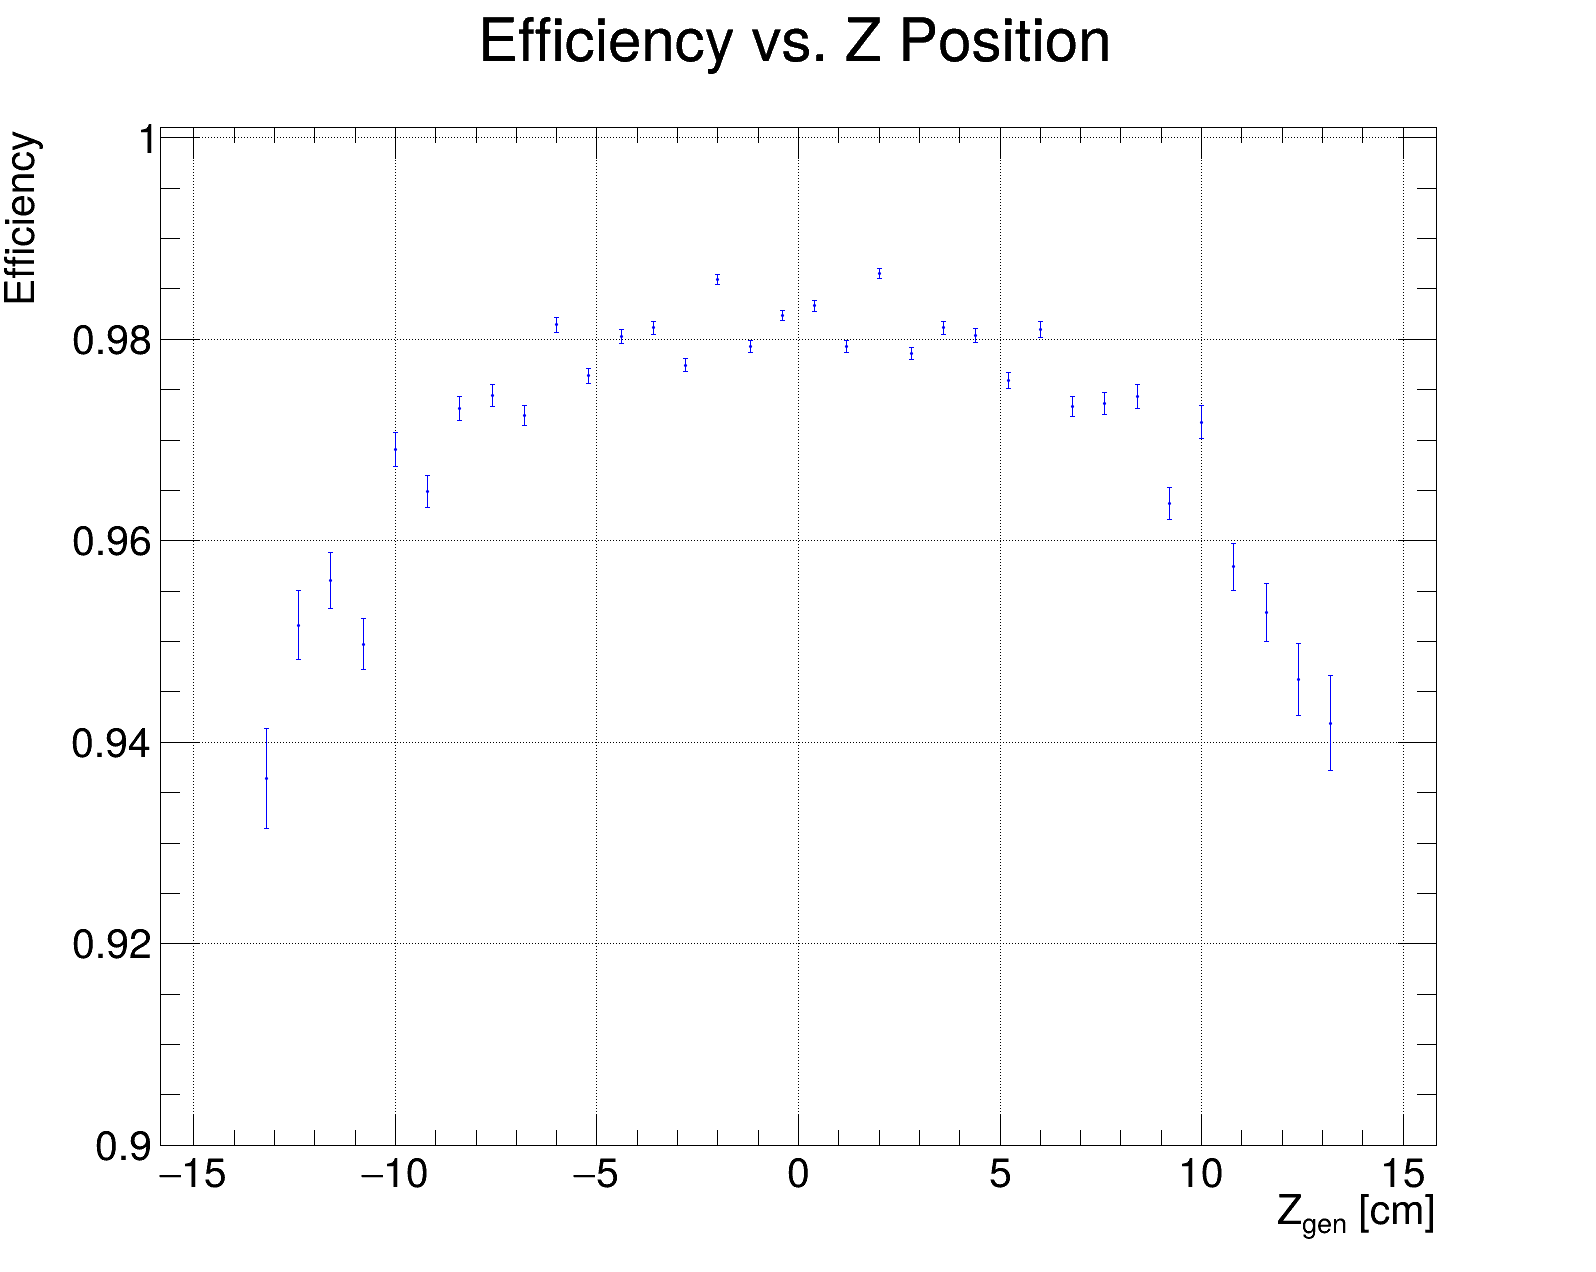
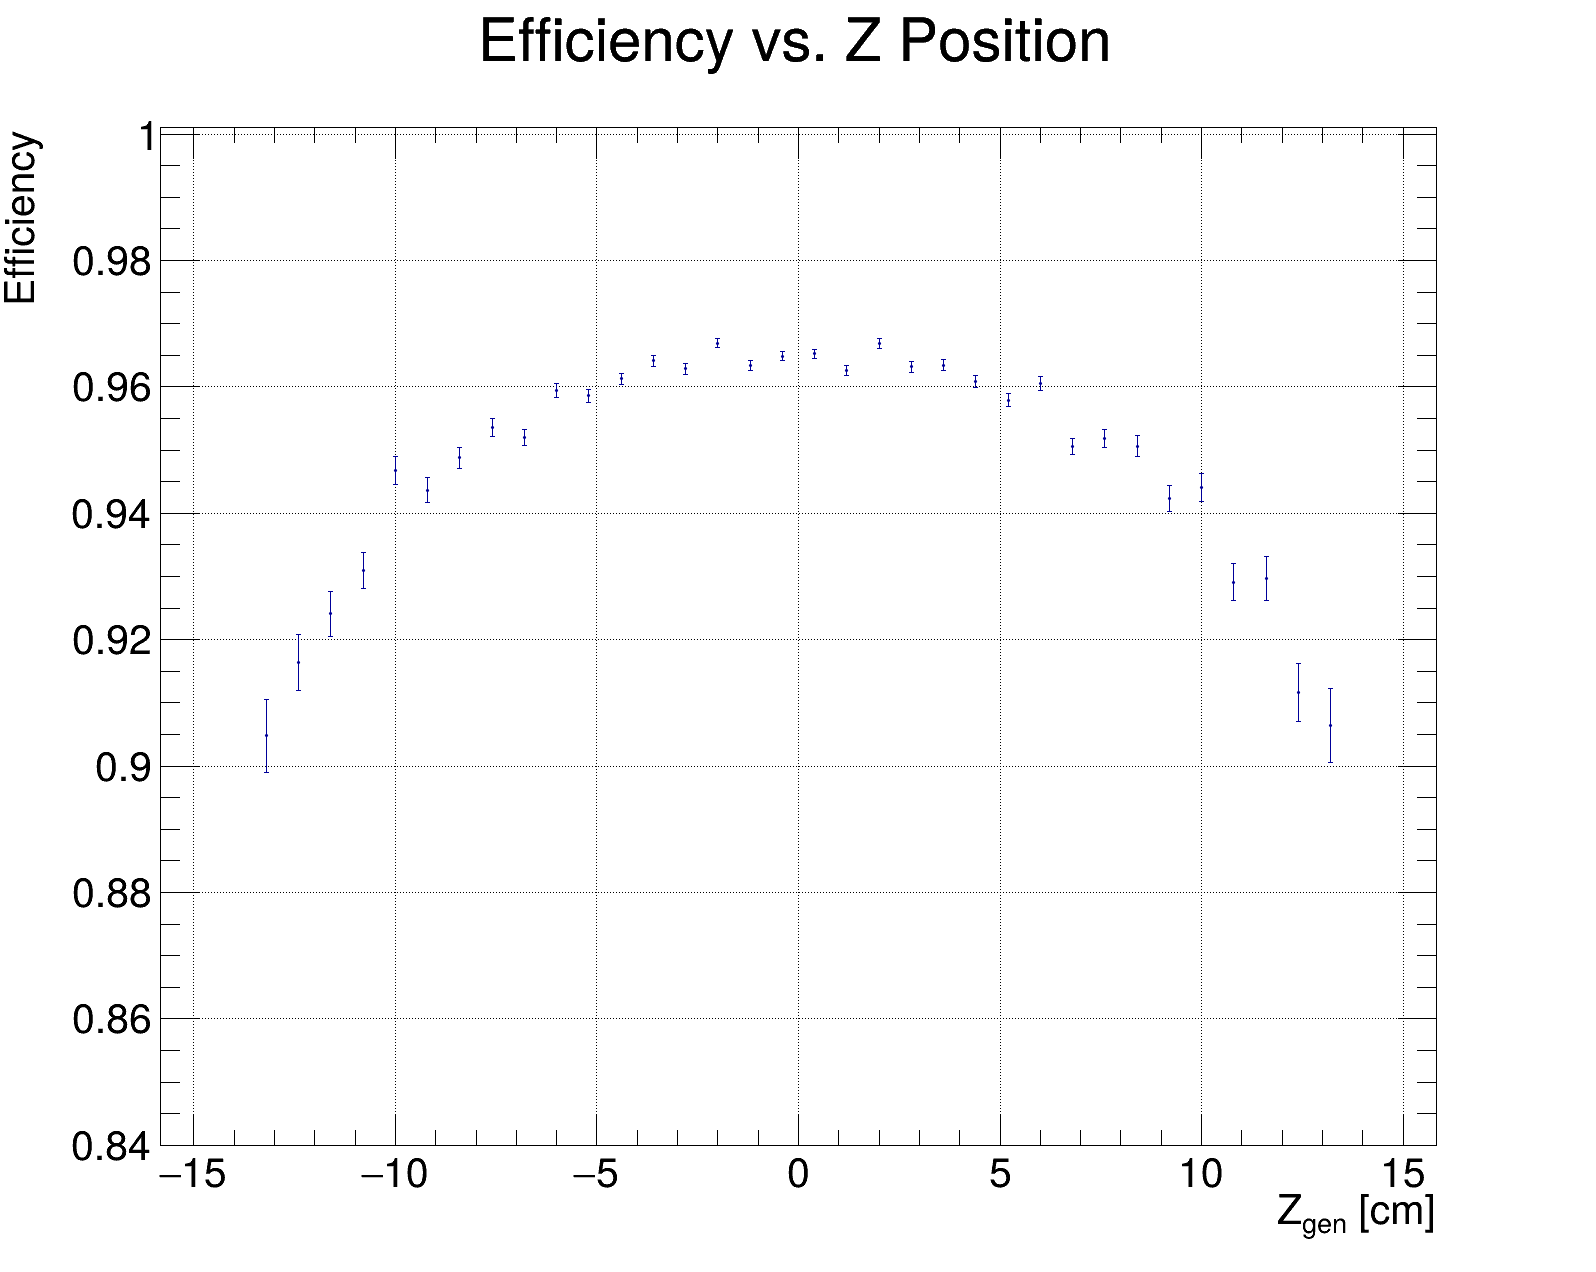
All files revised and corrected. Analysis adjusted to distr selection

diff --git a/project/macros/analysis.C b/project/macros/analysis.C
@@ -114,20 +114,15 @@ void analysis(unsigned int events = 1000000, string distr="custom") {
 
     profileZDiffGen->SetMarkerStyle(20);
     profileZDiffGen->SetMarkerSize(0.8);
-    profileZDiffGen->SetMarkerColor(kBlue);
-    profileZDiffGen->SetLineColor(kBlue);    
+    profileZDiffGen->SetMarkerColor(kBlue+2);
+    profileZDiffGen->SetLineColor(kBlue+2);    
 
     TH1D* histRes = new TH1D("Residuals", "Z Residuals;Z Difference (reco - gen) [cm];Entries", nResBins, ResMin, ResMax);
     TH1D* histMultTotal = new TH1D("MultTotal", "Multiplicity Distribution;Multiplicity;Entries", nMultBins, MultMin, MultMax);
     TH1D* histMultValid = new TH1D("MultValid", "Valid Events Multiplicity;Multiplicity;Entries", nMultBins, MultMin, MultMax);  
     TH1D* histZTotal = new TH1D("ZTotal", "Total Vertices vs Z;Z_{gen} [cm];Entries", nZBins, zMin, zMax);
     TH1D* histZValid = new TH1D("ZValid", "Reco Vertices vs Z;Z_{gen} [cm];Entries", nZBins, zMin, zMax);
-    
-    histZTotal->Sumw2();
-    histZValid->Sumw2();
-    histRes->Sumw2();
-    histMultTotal->Sumw2();
-    histMultValid->Sumw2();
+ 
     
     vector<double> mult_bins(nMultBins);
     vector<double> zDiff_means(nMultBins, 0.0);
@@ -162,7 +157,8 @@ void analysis(unsigned int events = 1000000, string distr="custom") {
         mult_bins[i] = histMultValid->GetBinCenter(i);  // Center of each bin
     }
     
-    
+    histRes->SetMarkerColor(kBlue+2);
+    histRes->SetLineColor(kBlue+2);
     histMultTotal->SetLineColor(kBlue);
     histMultTotal->SetLineWidth(2);
     histMultValid->SetLineColor(kRed);
@@ -226,8 +222,8 @@ void analysis(unsigned int events = 1000000, string distr="custom") {
     graphEffZ->SetTitle("Efficiency vs. Z Position;Z_{gen} [cm];Efficiency");
     graphEffZ->SetMarkerStyle(20);
     graphEffZ->SetMarkerSize(0.4);
-    graphEffZ->SetMarkerColor(kBlue);
-    graphEffZ->SetLineColor(kBlue);
+    graphEffZ->SetMarkerColor(kBlue+2);
+    graphEffZ->SetLineColor(kBlue+2);
     
 // Z DIFFERENCE VS MULTIPLICITY-------------------------------------------------------------------------------------------------------
     int step=1;
@@ -237,7 +233,7 @@ void analysis(unsigned int events = 1000000, string distr="custom") {
             valid_zdiff.push_back(zDiff_means[i] / mult_counts[i]);
             valid_zdiff_errors.push_back(histRes->GetRMS() / sqrt(mult_counts[i]));
             valid_mult_errors.push_back(sqrt(mult_bins[i]));
-            if (i>10){step=7;}
+            if (distr!="uni"&& i>7){step=7;}
         }
         
     }
@@ -253,8 +249,8 @@ void analysis(unsigned int events = 1000000, string distr="custom") {
     graphZDiff->SetTitle("Absolute Z Difference vs. Multiplicity;Multiplicity;Mean |Z Difference| [cm]");
     graphZDiff->SetMarkerStyle(20);
     graphZDiff->SetMarkerSize(0.8);
-    graphZDiff->SetMarkerColor(kBlue);
-    graphZDiff->SetLineColor(kBlue);
+    graphZDiff->SetMarkerColor(kBlue+2);
+    graphZDiff->SetLineColor(kBlue+2);
 
 //EFFICIENCY VS MULTIPLICITY-----------------------------------------------------------------------------------------------------------------------------  
     step=1;
@@ -273,7 +269,7 @@ void analysis(unsigned int events = 1000000, string distr="custom") {
             errorHighs.push_back(errorHigh);
             errorLowsX.push_back(errmult);
             errorHighsX.push_back(errmult);
-            if (bin>7){step=7;}
+            if (distr!="uni"&&bin>7){step=7;}
         }
     }
 
@@ -290,7 +286,8 @@ void analysis(unsigned int events = 1000000, string distr="custom") {
     graphEff->SetTitle("Efficiency vs. Multiplicity;Multiplicity;Efficiency");
     graphEff->SetMarkerStyle(20);
     graphEff->SetMarkerSize(0.5);
-    graphEff->SetMarkerColor(kBlue);
+    graphEff->SetMarkerColor(kBlue+2);
+    graphEff->SetLineColor(kBlue+2);
     
 // CANVASES-----------------------------------------------------------------------------------------------------------------------------   
  
@@ -298,8 +295,8 @@ void analysis(unsigned int events = 1000000, string distr="custom") {
     canvasMult->SetTicks(1, 1);
     canvasMult->SetGrid();
     TLegend* legend = new TLegend(0.65, 0.75, 0.85, 0.85);
-    legend->AddEntry(histMultTotal, "Total Events", "l");
-    legend->AddEntry(histMultValid, "Valid Events", "l");
+    legend->AddEntry(histMultTotal, "Total vertices", "l");
+    legend->AddEntry(histMultValid, "Reco vertices", "l");
     histMultTotal->Draw("HIST");
     histMultValid->Draw("HIST SAME");
     histMultTotal->SetStats(0);
@@ -314,38 +311,39 @@ void analysis(unsigned int events = 1000000, string distr="custom") {
     canvasHist->SaveAs("../plots/ZResiduals.png");   
     
     
-// SET RANGES-------------------------------------
+// SET RANGES---------------------------------------------------------------------------------------------------------------
 
   if( distr=="uni"){
-    profileZDiffGen->GetYaxis()->SetRangeUser(0, 0.04);
+    profileZDiffGen->GetYaxis()->SetRangeUser(0.010, 0.016);
     profileZDiffGen->GetYaxis()->SetMaxDigits(2);
     profileZDiffGen->GetYaxis()->SetTitleOffset(1.2);
     graphEff->GetYaxis()->SetRangeUser(0.95, 1.001);
-    graphZDiff->GetYaxis()->SetRangeUser(0, 0.02);
+    graphZDiff->GetYaxis()->SetRangeUser(0.009, 0.014);
+    graphZDiff->GetYaxis()->SetMaxDigits(2);
     graphEffZ->GetYaxis()->SetRangeUser(0.9, 1.001);
   
   
   } else if (distr=="gaus"){
-    profileZDiffGen->GetYaxis()->SetRangeUser(0, 0.03);
+    profileZDiffGen->GetYaxis()->SetRangeUser(0.010, 0.018);
     profileZDiffGen->GetYaxis()->SetMaxDigits(2);
     profileZDiffGen->GetYaxis()->SetTitleOffset(1.2);
     graphEff->GetYaxis()->SetRangeUser(0.85, 1.001);
     graphZDiff->GetYaxis()->SetRangeUser(0, 0.08);
-    graphEffZ->GetYaxis()->SetRangeUser(0.8, 1.001);
+    graphEffZ->GetYaxis()->SetRangeUser(0.9, 1.001);
   
   } else { // custom
-    profileZDiffGen->GetYaxis()->SetRangeUser(0.005, 0.03);
+    profileZDiffGen->GetYaxis()->SetRangeUser(0.012, 0.023);
     profileZDiffGen->GetYaxis()->SetMaxDigits(2);
     profileZDiffGen->GetYaxis()->SetTitleOffset(1.2);
-    graphEff->GetYaxis()->SetRangeUser(0.85, 1.001);
+    graphEff->GetYaxis()->SetRangeUser(0.84, 1.001);
     graphZDiff->GetYaxis()->SetRangeUser(0, 0.08);
-    graphEffZ->GetYaxis()->SetRangeUser(0.8, 1.001);
+    graphEffZ->GetYaxis()->SetRangeUser(0.84, 1.001);
   
   }
     
     
     
-//GENERAL CANVASES--------------------------------------------------il range-----------------------------------------------------------    
+//GENERAL CANVASES-------------------------------------------------------------------------------------------------------------    
     
     TCanvas* canvasZDiffGen = new TCanvas("canvasZDiffGen", "Z Difference vs Generated Z", 1600, 1300);
     canvasZDiffGen->SetTicks(1, 1);

diff --git a/project/macros/sim.C b/project/macros/sim.C
@@ -14,7 +14,7 @@
 
 
 
-void sim(int seed = 123, unsigned const int events = 1000000, bool MS = true, bool noise = true, string distr="custom") {
+void sim(int seed = 987, unsigned const int events = 1000000, bool MS = true, bool noise = true, string distr="custom") {
     TStopwatch stopwatch;
     stopwatch.Start();
 
